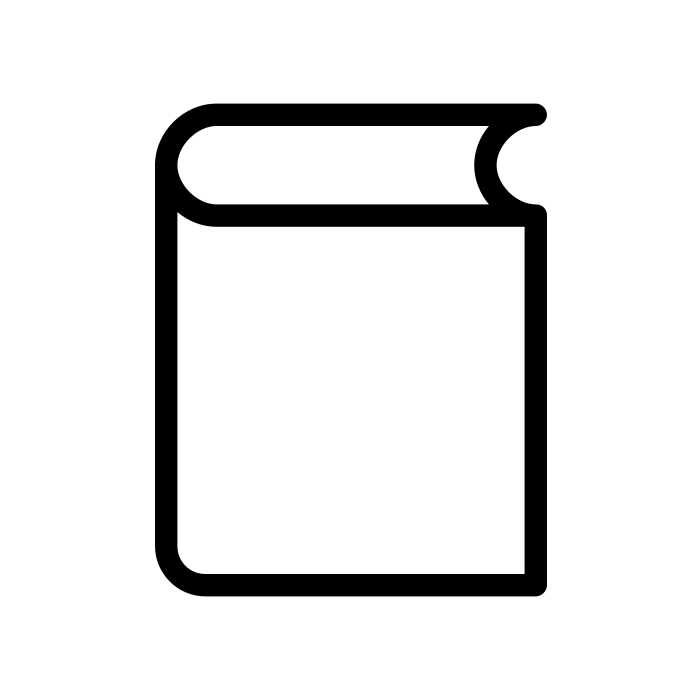
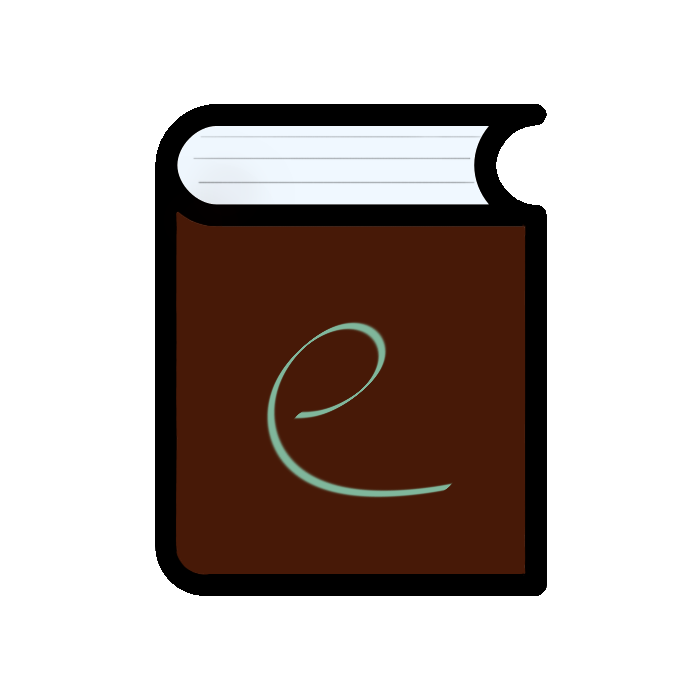
Chore: misc frontend touch ups/prep
Re-Designed the favicon and added the necessary links.
Added colour variables to stylesheet.css.
Moved epub_embed_test to depreciated.
Fixed some indentation in dynamic_libraray.php (the entire page is due a re-work).
Removed unneeded import from header.
Removed unneeded  console logs from append h&f (also due a heavy refactor).
Updated footer.
Updated Todo

Changed region(s): [[0.24, 0.21, 0.75, 0.84]]

diff --git a/Assets/StyleSheet.css b/Assets/StyleSheet.css
@@ -6,7 +6,7 @@ h4,
 h5,
 p,
 label {
-  color: white;
+  color: var(--LightText);
 }
 .Bold,
 label {
@@ -14,8 +14,15 @@ label {
 }
 
 /*Misc sitewide styles*/
+:root {
+  --BgColour: #282c34;
+  --Form_PopupBG: #737373;
+  --warnColour: #ff0000;
+  --LightBorder: #f0f8ff; /*aliceblue*/
+  --LightText: #ffffff;
+}
 html {
-  background-color: #282c34;
+  background-color: var(--BgColour);
   text-align: center;
   max-width: 100vw;
   overflow-x: hidden;
@@ -23,23 +30,23 @@ html {
 a:link,
 a:visited {
   text-decoration: none;
-  color: white;
+  color: var(--LightText);
 }
 .warning {
-  color: #ff0000;
+  color: var(--warnColour);
   font-weight: bold;
 }
 
 form {
-  border: 5px solid aliceblue;
+  border: 5px solid var(--LightBorder);
   border-radius: 1rem;
-  background-color: #737373;
+  background-color: var(--Form_PopupBG);
 }
 .flex-container {
   display: flex;
 }
 ::marker {
-  color: aliceblue;
+  color: var(--LightBorder);
 }
 .Display-none {
   display: none;
@@ -52,7 +59,7 @@ form {
   min-height: 50px;
   max-height: 10%;
   justify-content: space-between;
-  background-color: rgba(49, 49, 49, 0.349);
+  background-color: rgba(49, 49, 49, 0.5);
 }
 .Header-item {
   float: right;
@@ -62,19 +69,17 @@ form {
   min-width: 2rem;
   min-height: 50px;
   max-height: 10%;
-  padding: 0 1rem 0 1rem;
+  margin: 0 1rem 0 1rem;
 }
 
 /*Footer styles*/
-#Footer-content {
-  text-align: center;
-}
 #footer-container {
   margin-bottom: 0px;
   padding-top: 2%;
   min-height: 100px;
   width: 100%;
   clear: both;
+  text-align: center;
 }
 
 /*Homepage styles*/
@@ -92,7 +97,7 @@ form {
   margin-left: 5vw;
 }
 #Carousel-container img {
-  border: 2px solid aliceblue;
+  border: 2px solid var(--LightBorder);
   border-radius: 25%;
   overflow: hidden;
   width: 20vw;
@@ -122,11 +127,11 @@ form {
 .Instruction-entry {
   display: inline-block;
   margin-top: -5vh;
-  width: 25%;
+  width: 20vw;
   padding: 2.5vw;
 }
 .Instruction-entry img {
-  background-color: aliceblue;
+  background-color: var(--LightBorder);
   border-radius: 50%;
   width: 5vw;
   padding: 1vw;
@@ -140,18 +145,18 @@ form {
   border-collapse: collapse;
   width: 50vw;
   margin-left: 25vw;
-  color: white;
+  color: var(--LightText);
 }
 #Format-support-table td,
 #Format-support-table th {
-  border: 2px solid aliceblue;
+  border: 2px solid var(--LightBorder);
   padding: 0.5vh;
 }
 #Format-support-table th {
   padding: 1vh 0 1vh 0;
   text-align: left;
-  background-color: #737373;
-  color: white;
+  background-color: var(--Form_PopupBG);
+  color: var(--LightText);
 }
 /*Library styles*/
 .collumn {
@@ -166,8 +171,8 @@ form {
   display: inline-block;
 }
 .collumn li .Thumb {
-  border: 5px solid aliceblue;
-  background-color: #737373;
+  border: 5px solid var(--LightBorder);
+  background-color: var(--Form_PopupBG);
   border-radius: 15% 0% 0% 15%;
   height: 7vh;
   width: 3.3vw;
@@ -180,10 +185,10 @@ form {
   padding: 5%;
 }
 .collumn li .Details {
-  border: 5px solid aliceblue;
+  border: 5px solid var(--LightBorder);
   border-top-right-radius: 5%15%;
   border-bottom-right-radius: 5%15%;
-  background-color: #737373;
+  background-color: var(--Form_PopupBG);
   text-align: left;
   overflow: hidden;
   height: 5vh;
@@ -194,11 +199,11 @@ form {
 }
 .collumn li p,
 .collumn li a {
-  color: white;
+  color: var(--LightText);
   font-weight: bolder;
 }
 .Missing-space-warning {
-  color: #ff0000;
+  color: var(--warnColour);
   font-weight: bold;
 }
 .LS-Type-ind {
@@ -220,15 +225,15 @@ form {
   display: none;
 }
 #Req_status_modal_body {
-  background-color: #737373;
+  background-color: var(--Form_PopupBG);
   width: 50vw;
   height: 50vh;
   margin: 25vh 0 0 25vw;
-  border: 10px solid aliceblue;
+  border: 10px solid var(--LightBorder);
   border-radius: 10%;
 }
 #Req_status_modal_body table {
-  color: white;
+  color: var(--LightText);
   width: 25vw;
   margin-left: 12.5vw;
   margin-top: 5vh;
@@ -253,9 +258,9 @@ form {
 input,
 select {
   /*fix the ofset this causes*/
-  background-color: #282c34;
+  background-color: var(--BgColour);
   border: none;
-  color: white;
+  color: var(--LightText);
   padding: 0.5vw 1.5vh;
   text-align: center;
   display: inline-block;

diff --git a/Assets/Scripts/Append_H&F.js b/Assets/Scripts/Append_H&F.js
@@ -6,13 +6,6 @@ function getheader() {
     var xhttp = new XMLHttpRequest();
     xhttp.onreadystatechange = function () {
       if (this.readyState == 4) {
-        /*
-        console.log(
-          "Header request state/status: ",
-          this.readyState,
-          this.status
-        );
-        */
         if (this.status == 200) {
           HEADER_CONTAINER.innerHTML = this.responseText;
         } else if (this.status == 404) {
@@ -35,13 +28,6 @@ function getfooter() {
     var xhttp = new XMLHttpRequest();
     xhttp.onreadystatechange = function () {
       if (this.readyState == 4) {
-        /*
-        console.log(
-          "Footer request state/status: ",
-          this.readyState,
-          this.status
-        );
-        */
         if (this.status == 200) {
           FOOTER_CONTAINER.innerHTML = this.responseText;
         } else if (this.status == 404) {

diff --git a/Assets/Footer.html b/Assets/Footer.html
@@ -2,8 +2,12 @@
 	<div id = "Footer-container">
 		<hr></hr>
 		<br>
-		<p id="Footer-content">
-			Version: 0.29, 3/1/23
+		<p>
+			Version: 0.7, 23/11/23
+			<br>
+			The management functions of this software require the included API to run correctly, please ensure it is set up in a secure manner.
+			<br>
+			The creator accepts no responsibility for damage resulting from the misuse of this software.
 			<br>
 			Use at your own risk
 			<br>

diff --git a/Home.html b/Home.html
@@ -3,6 +3,7 @@
     <meta name="viewport" content="width=device-width, initial-scale=1.0" />
     <script src="http://ajax.googleapis.com/ajax/libs/jquery/2.1.3/jquery.min.js"></script>
     <link rel="stylesheet" href="Assets/StyleSheet.css" />
+    <link rel="icon" href="Assets/Images/favicon.ico" />
   </head>
   <div id="header_container"></div>
 

diff --git a/Assets/Header.html b/Assets/Header.html
@@ -2,7 +2,6 @@
   <head>
     <meta name="viewport" content="width=device-width, initial-scale=1.0" />
     <script src=" http://ajax.googleapis.com/ajax/libs/jquery/2.1.3/jquery.min.js"></script>
-    <link rel="icon" href="Assets/Images/favicon.ico" />
     <title>EBook server</title>
   </head>
 

diff --git a/Dynamic_library.php b/Dynamic_library.php
@@ -2,7 +2,8 @@
 	<head>
 		<meta name="viewport" content="width=device-width, initial-scale=1.0">	
 		<script src="http://ajax.googleapis.com/ajax/libs/jquery/2.1.3/jquery.min.js"></script>	
-		<link rel="stylesheet" href="Assets/StyleSheet.css"/>		
+		<link rel="stylesheet" href="Assets/StyleSheet.css"/>
+		<link rel="icon" href="Assets/Images/favicon.ico" />	
 		<title>EBook Library</title>    
 </head>
 <div id = "header_container"> </div>
@@ -12,21 +13,21 @@
     Implement thumbnail extractions and readers for each file format
     un-comment the failed to get thumbnail console logs once implemented
 -->
-    <div id = "Landing-segment">
-		  <h1>Dynamic library</h1>
-		  <p>
-		    File formats are displayed for each title, green means full
-			  functionality (download and browser based reader), yellow means 
-			  supported but no reader, red means not supported (will still download).
-		  </p>
-      <h4 class = 'Missing-space-warning'>Some books may be missing spaces in their titles, check the console for a list.</h4>
-    </div>
-    <div id="Library-collumns">
-		  <div id = "Col_1" class = "collumn"></div>
-		  <div id = "Col_2" class = "collumn"></div>
-		  <div id = "Col_3" class = "collumn"></div>
-      <div id = "Col_4" class = "collumn"></div>
-    </div>
+<div id = "Landing-segment">
+	<h1>Dynamic library</h1>
+	<p>
+		File formats are displayed for each title, green means full
+		functionality (download and browser based reader), yellow means 
+		supported but no reader, red means not supported (will still download).
+	</p>
+    <h4 class = 'Missing-space-warning'>Some books may be missing spaces in their titles, check the console for a list.</h4>
+</div>
+<div id="Library-collumns">
+	<div id = "Col_1" class = "collumn"></div>
+	<div id = "Col_2" class = "collumn"></div>
+	<div id = "Col_3" class = "collumn"></div>
+	<div id = "Col_4" class = "collumn"></div>
+</div>
 
 <?php 
 #Fetch every folder in books   

diff --git a/Management.php b/Management.php
@@ -2,7 +2,8 @@
   <head>
     <meta name="viewport" content="width=device-width, initial-scale=1.0">	
     <script src="http://ajax.googleapis.com/ajax/libs/jquery/2.1.3/jquery.min.js"></script>	
-    <link rel="stylesheet" href="Assets/StyleSheet.css"/>		
+    <link rel="stylesheet" href="Assets/StyleSheet.css"/>
+    <link rel="icon" href="Assets/Images/favicon.ico" />
   </head>
 	
 <div id = "header_container"></div>
